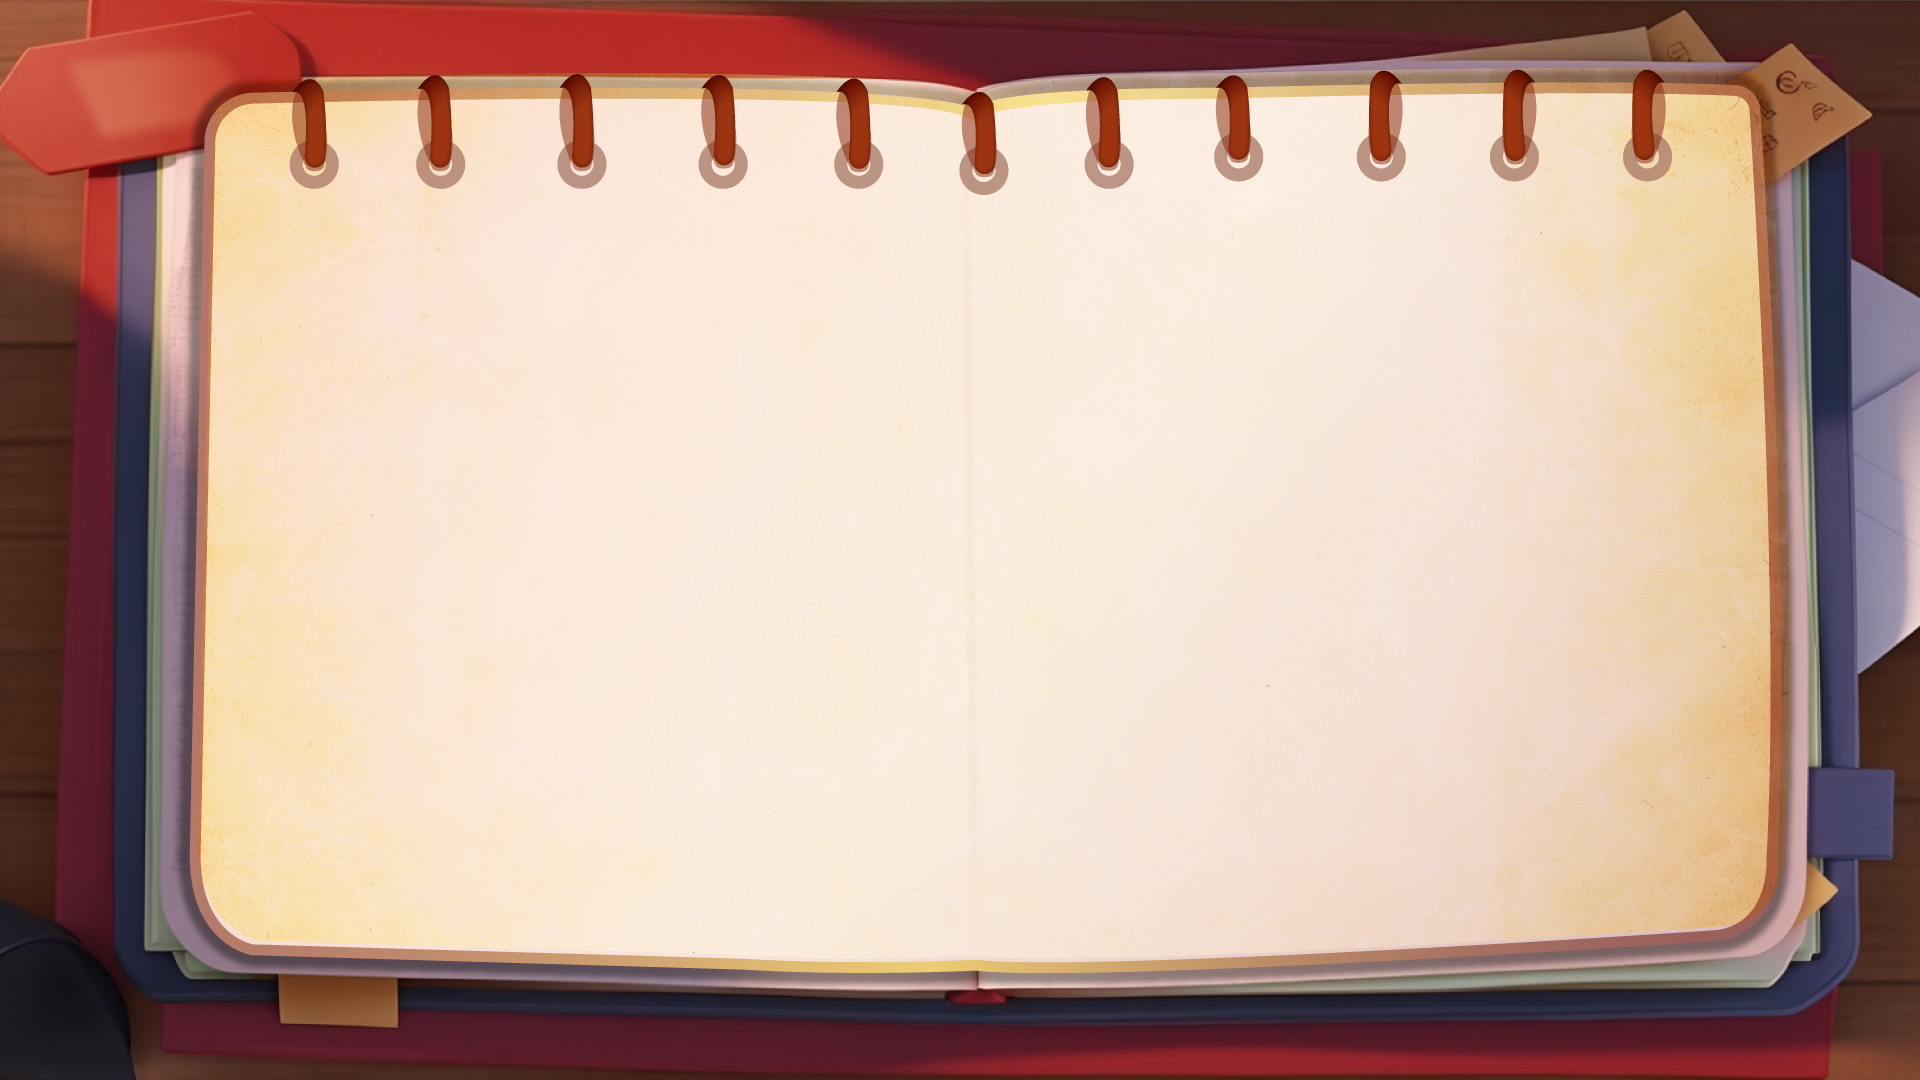
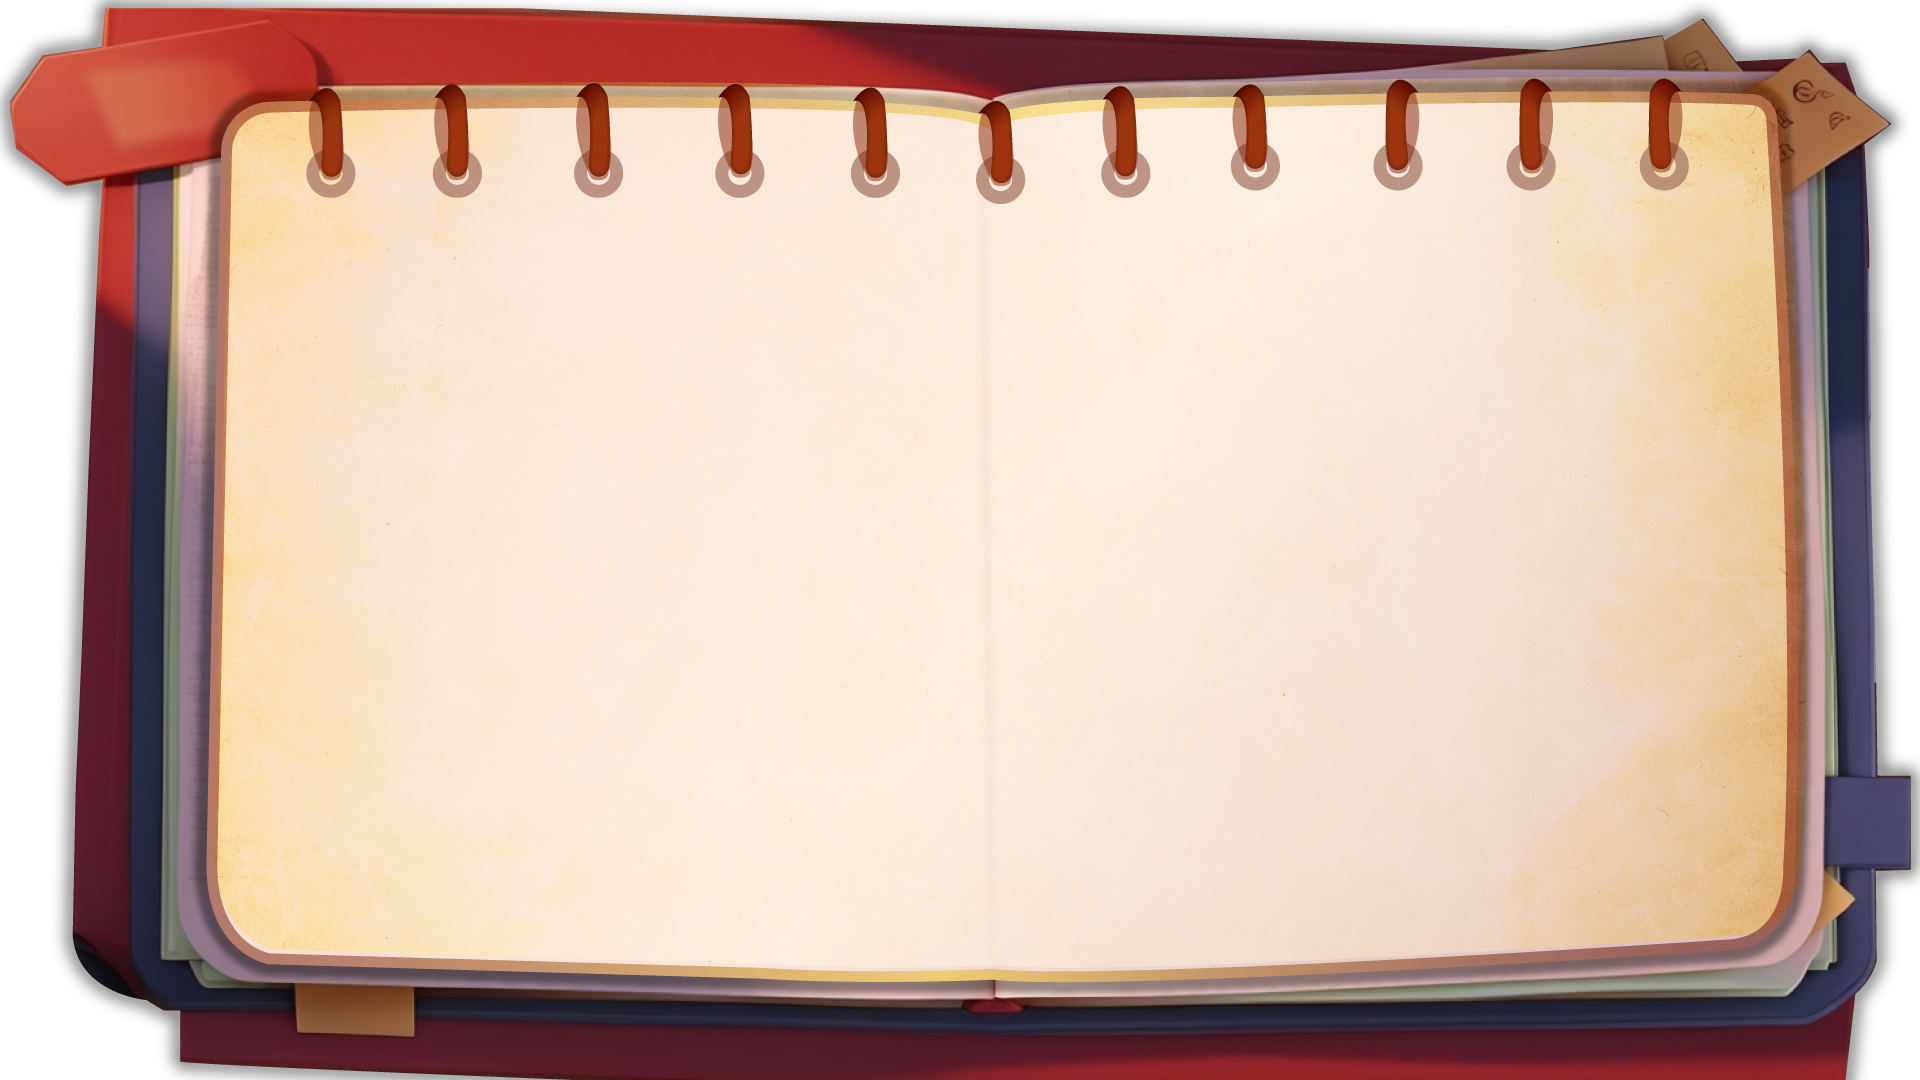
change background

Changed region(s): [[0.0, 0.0, 1.0, 1.0], [0.8438, 0.6722, 0.875, 0.7028], [0.3125, 0.9778, 0.3438, 1.0]]

diff --git a/index.html b/index.html
@@ -27,7 +27,10 @@
 		body {
 			margin: 0;
 			padding: 0;
-			background: rgb(0, 0, 0);
+			background-image: url(./assets/images/woodenBackground.png);
+			background-size: cover;
+			background-repeat: no-repeat;
+			background-position: center center;
 		}
 	</style>
 

diff --git a/src/main.js b/src/main.js
@@ -12,8 +12,8 @@ const init = () => {
 		width: 1920,
 		height: 1080,
 		type: Phaser.AUTO,
-		backgroundColor: "#242424",
 		parent: "game-division",
+		transparent: true,
 		scale: {
 			mode: Phaser.Scale.FIT,
 			autoCenter: Phaser.Scale.CENTER_BOTH,
